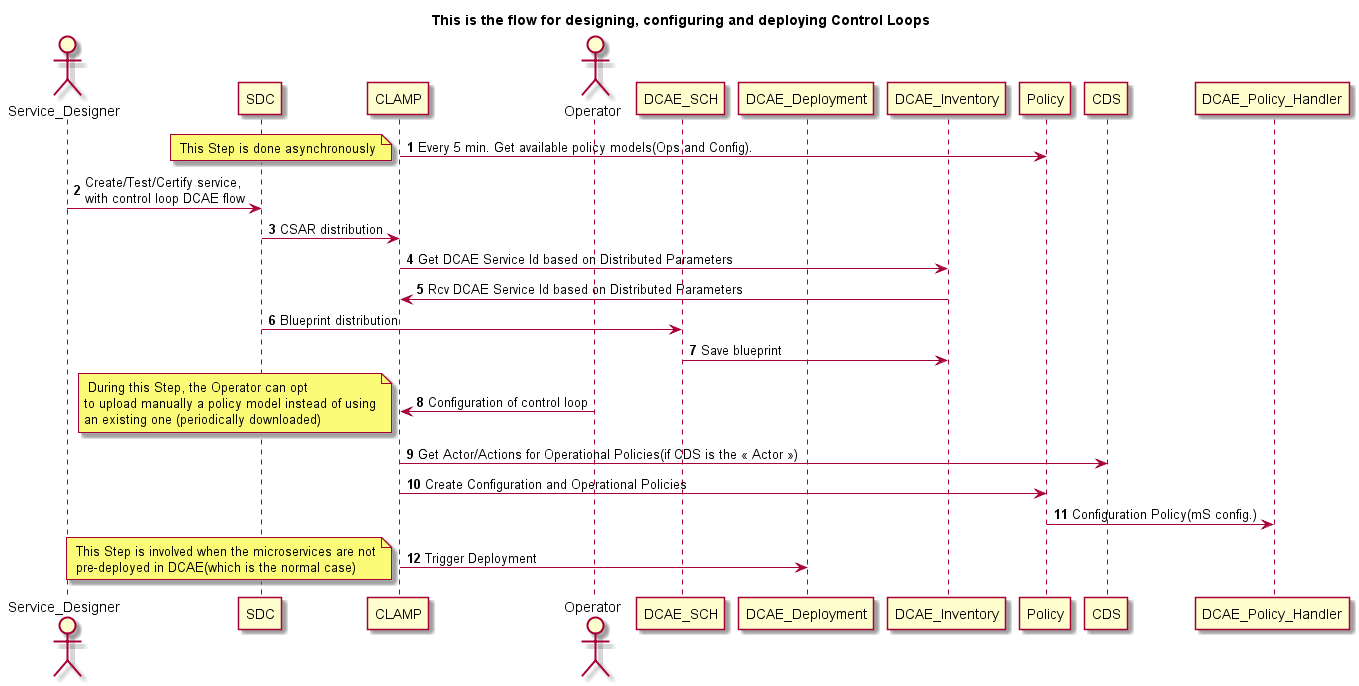
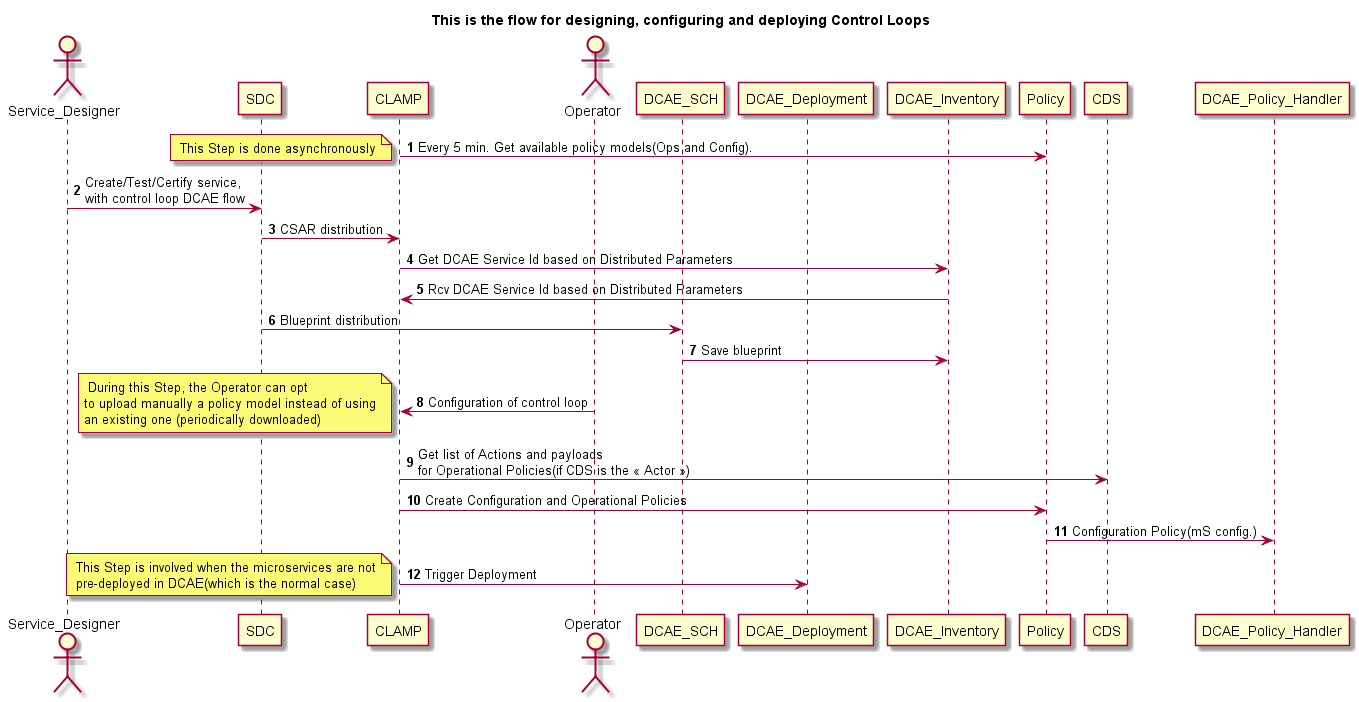
correct docs
correct architecture doc regarding CDS interaction

Issue-ID: CLAMP-885

diff --git a/docs/index.rst b/docs/index.rst
@@ -38,7 +38,7 @@ CLAMP uses the API's exposed by the following ONAP components:
 - SDC : REST based interface exposed by the SDC, Distribution of service to DCAE
 - DCAE: REST based interface exposed by DCAE, Common Controller Framework, DCAE microservices onboarded (TCA, Stringmatch, Holmes (optional))
 - Policy: REST based interface, Policy engine target both XACML and Drools PDP, Policy Engine trigger operations to App-C/VF-C/SDN-C
-- CDS: REST based interface, to retrieve list of actors/actions at runtime.
+- CDS: REST based interface, to retrieve list of operations/actions with their corresponding payload at runtime for Operational Policies where the field 'actor' is 'CDS'.
 
 Delivery
 --------
